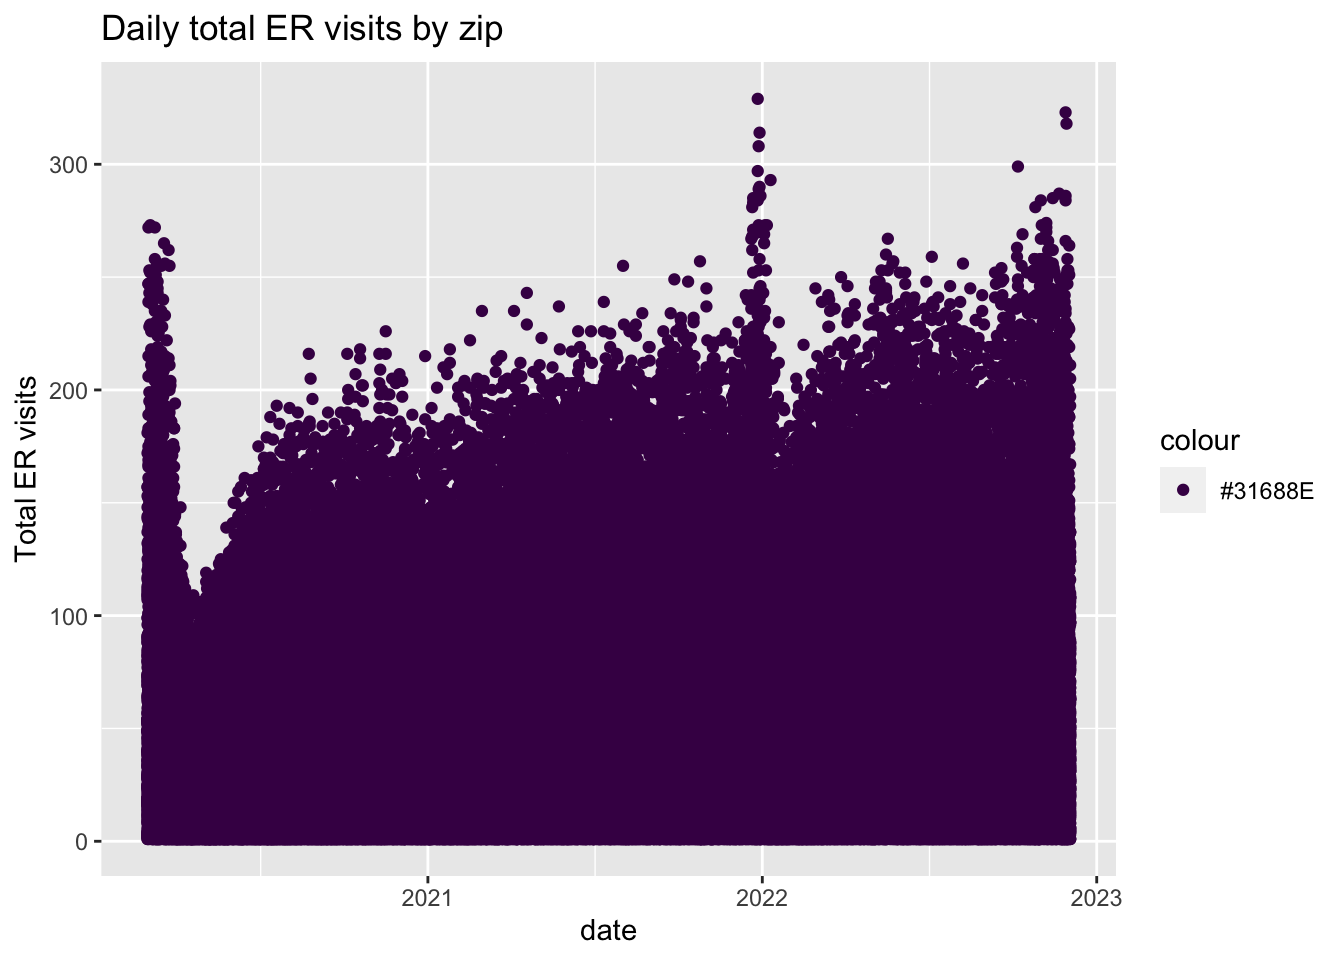
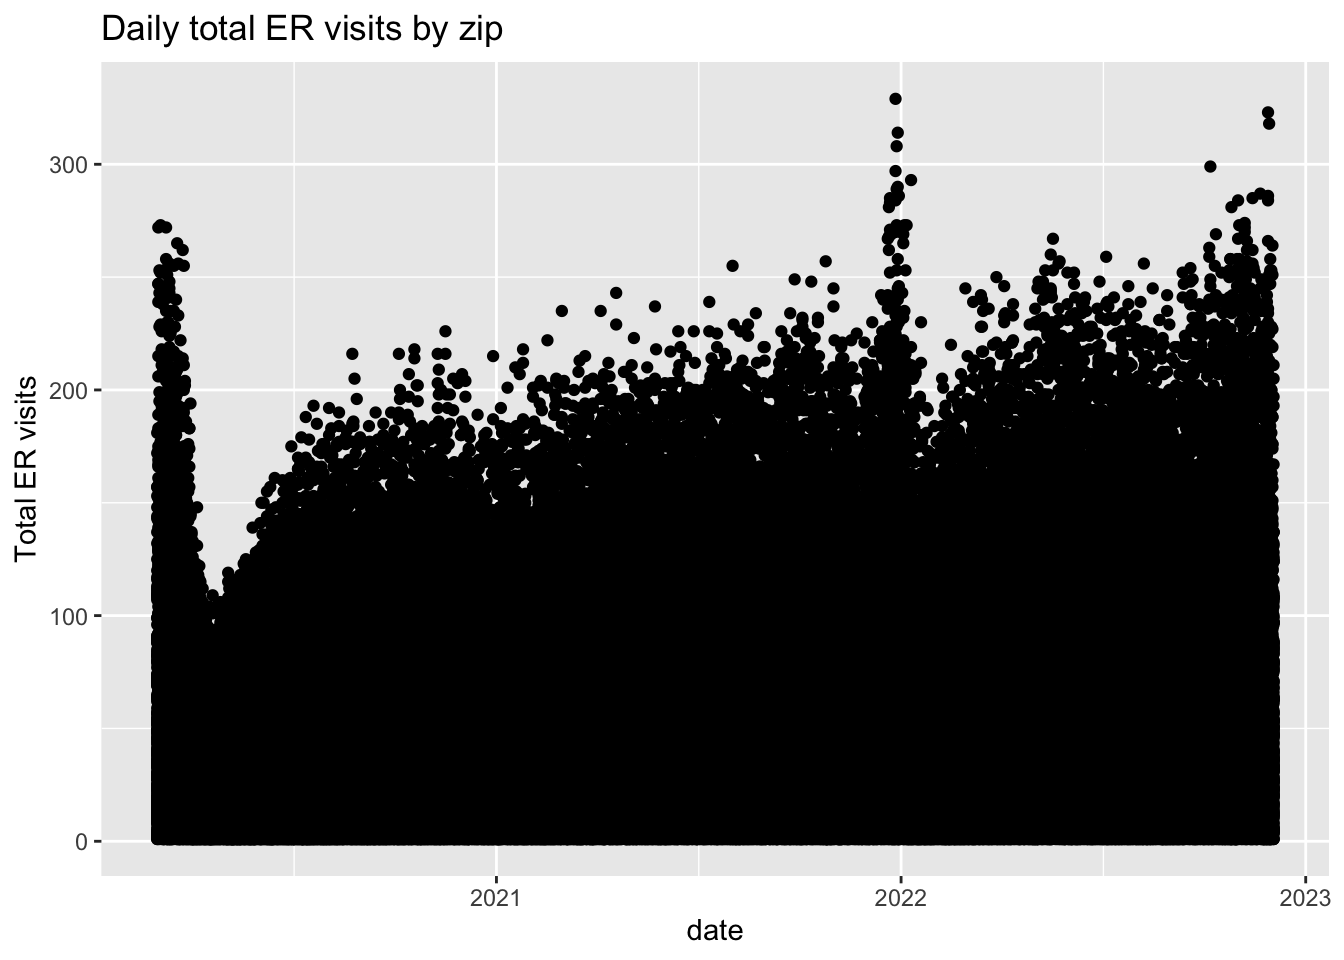
Cross correlation analysis

diff --git a/data_processing.html b/data_processing.html
@@ -476,29 +476,9 @@ class="section level1">
 
 airqual_annual = read_csv(&quot;data/cleaned_data/uhf_airquality.csv&quot;) |&gt; 
   filter(str_detect(name, &quot;Fine&quot;)) 
-table(airqual_annual$time_period)</code></pre>
-<pre><code>## 
-## Annual Average 2009 Annual Average 2010 Annual Average 2011 Annual Average 2012 
-##                  42                  42                  42                  42 
-## Annual Average 2013 Annual Average 2014 Annual Average 2015 Annual Average 2016 
-##                  42                  42                  42                  42 
-## Annual Average 2017 Annual Average 2018 Annual Average 2019 Annual Average 2020 
-##                  42                  42                  42                  42 
-## Annual Average 2021         Summer 2009         Summer 2010         Summer 2011 
-##                  42                  42                  42                  42 
-##         Summer 2012         Summer 2013         Summer 2014         Summer 2015 
-##                  42                  42                  42                  42 
-##         Summer 2016         Summer 2017         Summer 2018         Summer 2019 
-##                  42                  42                  42                  42 
-##         Summer 2020         Summer 2021      Winter 2008-09      Winter 2009-10 
-##                  42                  42                  42                  42 
-##      Winter 2010-11      Winter 2011-12      Winter 2012-13      Winter 2013-14 
-##                  42                  42                  42                  42 
-##      Winter 2014-15      Winter 2015-16      Winter 2016-17      Winter 2017-18 
-##                  42                  42                  42                  42 
-##      Winter 2018-19      Winter 2019-20      Winter 2020-21 
-##                  42                  42                  42</code></pre>
-<pre class="r"><code>#### Prepare dataset from daily data (Summer: 1June-31Aug, Winter 1Dec-28Feb)
+table(airqual_annual$time_period)
+
+#### Prepare dataset from daily data (Summer: 1June-31Aug, Winter 1Dec-28Feb)
 
 # Annual averages for each pollutant and each zip
 
@@ -569,10 +549,11 @@ er_plot</code></pre>
     numeric_month = match(month, month.name),
     date = as.Date(paste(year, numeric_month, day, sep = &quot;-&quot;), format = &quot;%Y-%m-%d&quot;)
   ) |&gt; 
-  ggplot(aes(x = date, y = total_ed_visits, color = &quot;#31688E&quot;)) +
+  ggplot(aes(x = date, y = total_ed_visits)) +
   geom_point() +
   labs(title = &quot;Daily total ER visits by zip&quot;,
-       y = &quot;Total ER visits&quot;)</code></pre>
+       y = &quot;Total ER visits&quot;) +
+  theme(legend.position = &quot;none&quot;)</code></pre>
 <p><img src="data_processing_files/figure-html/unnamed-chunk-4-1.png" width="100%" /></p>
 <p>From the plot below, we can see that the number of emergency
 department visits related to pneumonia peak during winter seasons.</p>
@@ -702,6 +683,178 @@ class="section level2">
 
 poll_plot</code></pre>
 <p><img src="data_processing_files/figure-html/unnamed-chunk-7-1.png" width="100%" /></p>
+</div>
+</div>
+<div id="cross-correlation-analysis" class="section level1">
+<h1>Cross correlation analysis</h1>
+<pre class="r"><code>ccf_df = air_qual_dis |&gt; 
+  filter(!is.na(o3_ppm) &amp; !is.na(ili_pne_visits)) |&gt; 
+  mutate(date_lag = date + days(117),
+         scaled_o3 = o3_ppm * 100, 
+         lagged_o3 = lag(scaled_o3, n = 117)
+  )
+print(ccf(ccf_df$o3_ppm, ccf_df$ili_pne_admissions, lag.max=250))</code></pre>
+<p><img src="data_processing_files/figure-html/unnamed-chunk-8-1.png" width="672" /></p>
+<pre><code>## 
+## Autocorrelations of series &#39;X&#39;, by lag
+## 
+##   -250   -249   -248   -247   -246   -245   -244   -243   -242   -241   -240 
+## -0.014  0.014  0.014  0.023  0.023  0.019  0.020  0.018  0.014  0.025  0.023 
+##   -239   -238   -237   -236   -235   -234   -233   -232   -231   -230   -229 
+##  0.040  0.037  0.043  0.018  0.026  0.031  0.039  0.049  0.032  0.043  0.055 
+##   -228   -227   -226   -225   -224   -223   -222   -221   -220   -219   -218 
+##  0.047  0.046  0.035  0.046  0.056  0.051  0.067  0.063  0.060  0.063  0.077 
+##   -217   -216   -215   -214   -213   -212   -211   -210   -209   -208   -207 
+##  0.087  0.081  0.076  0.077  0.078  0.071  0.085  0.095  0.109  0.096  0.108 
+##   -206   -205   -204   -203   -202   -201   -200   -199   -198   -197   -196 
+##  0.110  0.112  0.111  0.107  0.095  0.090  0.097  0.084  0.105  0.102  0.100 
+##   -195   -194   -193   -192   -191   -190   -189   -188   -187   -186   -185 
+##  0.115  0.124  0.122  0.121  0.117  0.125  0.131  0.134  0.147  0.131  0.142 
+##   -184   -183   -182   -181   -180   -179   -178   -177   -176   -175   -174 
+##  0.127  0.127  0.124  0.139  0.148  0.132  0.140  0.141  0.145  0.147  0.145 
+##   -173   -172   -171   -170   -169   -168   -167   -166   -165   -164   -163 
+##  0.156  0.158  0.159  0.162  0.153  0.143  0.155  0.155  0.159  0.155  0.160 
+##   -162   -161   -160   -159   -158   -157   -156   -155   -154   -153   -152 
+##  0.159  0.163  0.159  0.157  0.157  0.167  0.166  0.163  0.166  0.152  0.145 
+##   -151   -150   -149   -148   -147   -146   -145   -144   -143   -142   -141 
+##  0.147  0.150  0.156  0.162  0.158  0.159  0.148  0.152  0.141  0.138  0.147 
+##   -140   -139   -138   -137   -136   -135   -134   -133   -132   -131   -130 
+##  0.136  0.136  0.148  0.150  0.141  0.147  0.132  0.116  0.118  0.118  0.109 
+##   -129   -128   -127   -126   -125   -124   -123   -122   -121   -120   -119 
+##  0.105  0.103  0.097  0.107  0.106  0.086  0.079  0.075  0.082  0.070  0.066 
+##   -118   -117   -116   -115   -114   -113   -112   -111   -110   -109   -108 
+##  0.065  0.068  0.072  0.059  0.056  0.052  0.040  0.045  0.029  0.024  0.026 
+##   -107   -106   -105   -104   -103   -102   -101   -100    -99    -98    -97 
+##  0.037  0.047  0.028  0.012  0.009  0.005  0.004 -0.005 -0.012  0.006 -0.015 
+##    -96    -95    -94    -93    -92    -91    -90    -89    -88    -87    -86 
+## -0.032 -0.026 -0.040 -0.036 -0.041 -0.040 -0.045 -0.045 -0.051 -0.052 -0.049 
+##    -85    -84    -83    -82    -81    -80    -79    -78    -77    -76    -75 
+## -0.061 -0.069 -0.079 -0.056 -0.068 -0.076 -0.081 -0.081 -0.077 -0.077 -0.080 
+##    -74    -73    -72    -71    -70    -69    -68    -67    -66    -65    -64 
+## -0.085 -0.084 -0.093 -0.091 -0.082 -0.108 -0.104 -0.105 -0.117 -0.113 -0.112 
+##    -63    -62    -61    -60    -59    -58    -57    -56    -55    -54    -53 
+## -0.129 -0.130 -0.124 -0.107 -0.096 -0.123 -0.141 -0.141 -0.126 -0.125 -0.134 
+##    -52    -51    -50    -49    -48    -47    -46    -45    -44    -43    -42 
+## -0.127 -0.133 -0.120 -0.123 -0.129 -0.132 -0.136 -0.138 -0.131 -0.142 -0.138 
+##    -41    -40    -39    -38    -37    -36    -35    -34    -33    -32    -31 
+## -0.127 -0.123 -0.125 -0.146 -0.138 -0.133 -0.125 -0.132 -0.133 -0.136 -0.125 
+##    -30    -29    -28    -27    -26    -25    -24    -23    -22    -21    -20 
+## -0.110 -0.106 -0.103 -0.105 -0.123 -0.104 -0.092 -0.086 -0.096 -0.087 -0.087 
+##    -19    -18    -17    -16    -15    -14    -13    -12    -11    -10     -9 
+## -0.096 -0.097 -0.097 -0.070 -0.087 -0.095 -0.087 -0.076 -0.069 -0.081 -0.086 
+##     -8     -7     -6     -5     -4     -3     -2     -1      0      1      2 
+## -0.074 -0.060 -0.059 -0.054 -0.056 -0.050 -0.046 -0.047 -0.052 -0.037 -0.029 
+##      3      4      5      6      7      8      9     10     11     12     13 
+## -0.032 -0.049 -0.040 -0.032 -0.027 -0.020 -0.022 -0.031 -0.020 -0.015 -0.002 
+##     14     15     16     17     18     19     20     21     22     23     24 
+##  0.007  0.002  0.009 -0.016 -0.002  0.003  0.011 -0.013 -0.010 -0.009 -0.003 
+##     25     26     27     28     29     30     31     32     33     34     35 
+##  0.007  0.019  0.012 -0.006  0.012  0.032  0.024  0.027  0.012  0.008  0.010 
+##     36     37     38     39     40     41     42     43     44     45     46 
+##  0.021  0.038  0.030  0.026  0.017  0.023  0.019  0.020  0.030  0.031  0.024 
+##     47     48     49     50     51     52     53     54     55     56     57 
+##  0.025  0.015  0.025  0.033  0.033  0.034  0.046  0.029  0.025  0.033  0.039 
+##     58     59     60     61     62     63     64     65     66     67     68 
+##  0.040  0.055  0.041  0.034  0.039  0.055  0.055  0.047  0.063  0.076  0.067 
+##     69     70     71     72     73     74     75     76     77     78     79 
+##  0.090  0.079  0.077  0.093  0.107  0.099  0.114  0.099  0.092  0.100  0.106 
+##     80     81     82     83     84     85     86     87     88     89     90 
+##  0.099  0.089  0.083  0.089  0.096  0.093  0.095  0.112  0.116  0.111  0.117 
+##     91     92     93     94     95     96     97     98     99    100    101 
+##  0.135  0.147  0.124  0.137  0.117  0.118  0.119  0.141  0.143  0.130  0.127 
+##    102    103    104    105    106    107    108    109    110    111    112 
+##  0.147  0.147  0.136  0.147  0.167  0.169  0.157  0.163  0.185  0.195  0.177 
+##    113    114    115    116    117    118    119    120    121    122    123 
+##  0.178  0.176  0.187  0.182  0.205  0.185  0.170  0.176  0.169  0.174  0.172 
+##    124    125    126    127    128    129    130    131    132    133    134 
+##  0.186  0.179  0.158  0.141  0.149  0.144  0.159  0.137  0.122  0.123  0.120 
+##    135    136    137    138    139    140    141    142    143    144    145 
+##  0.128  0.120  0.117  0.108  0.112  0.108  0.113  0.097  0.094  0.085  0.073 
+##    146    147    148    149    150    151    152    153    154    155    156 
+##  0.087  0.096  0.099  0.084  0.075  0.070  0.057  0.064  0.065  0.055  0.063 
+##    157    158    159    160    161    162    163    164    165    166    167 
+##  0.061  0.059  0.056  0.052  0.050  0.042  0.042  0.035  0.034  0.039  0.039 
+##    168    169    170    171    172    173    174    175    176    177    178 
+##  0.037  0.038  0.037  0.042  0.032  0.044  0.032  0.051  0.033  0.030  0.024 
+##    179    180    181    182    183    184    185    186    187    188    189 
+##  0.022  0.037  0.023  0.019  0.034  0.023  0.018  0.014  0.007  0.000  0.007 
+##    190    191    192    193    194    195    196    197    198    199    200 
+##  0.007  0.006 -0.006 -0.008 -0.007 -0.007 -0.011 -0.027 -0.038 -0.032 -0.041 
+##    201    202    203    204    205    206    207    208    209    210    211 
+## -0.041 -0.045 -0.035 -0.038 -0.047 -0.054 -0.060 -0.054 -0.066 -0.061 -0.048 
+##    212    213    214    215    216    217    218    219    220    221    222 
+## -0.039 -0.044 -0.040 -0.027 -0.052 -0.045 -0.057 -0.036 -0.039 -0.031 -0.055 
+##    223    224    225    226    227    228    229    230    231    232    233 
+## -0.057 -0.052 -0.050 -0.052 -0.062 -0.060 -0.062 -0.067 -0.074 -0.063 -0.061 
+##    234    235    236    237    238    239    240    241    242    243    244 
+## -0.066 -0.079 -0.075 -0.077 -0.082 -0.092 -0.099 -0.089 -0.083 -0.106 -0.107 
+##    245    246    247    248    249    250 
+## -0.100 -0.101 -0.112 -0.112 -0.109 -0.110</code></pre>
+<pre class="r"><code># Visualize lag
+
+ccf_df |&gt; 
+  ggplot() +
+  geom_point(aes(x = date_lag, y = scaled_o3), color = &quot;#440154&quot;) +
+  geom_point(aes(x = date, y = ili_pne_visits), color = &quot;#D8B26A&quot;) +
+  labs(title = &quot;Lagging Ozone variable by 117 days&quot;, 
+       x = &quot;Date&quot;,
+       y = &quot;Scaled O3&quot;) +
+  geom_vline(xintercept = as.numeric(as.Date(c(&quot;2021-01-01&quot;, &quot;2022-01-01&quot;, &quot;2023-01-01&quot;))), color = &quot;grey&quot;)</code></pre>
+<p><img src="data_processing_files/figure-html/unnamed-chunk-8-2.png" width="672" /></p>
+<pre class="r"><code>prelag_model = lm(ili_pne_visits ~ scaled_o3, data = ccf_df)
+summary(prelag_model)</code></pre>
+<pre><code>## 
+## Call:
+## lm(formula = ili_pne_visits ~ scaled_o3, data = ccf_df)
+## 
+## Residuals:
+##     Min      1Q  Median      3Q     Max 
+## -5.5475 -2.5946 -0.9882  1.5118 26.7952 
+## 
+## Coefficients:
+##             Estimate Std. Error t value Pr(&gt;|t|)    
+## (Intercept)   5.8074     0.2011  28.877   &lt;2e-16 ***
+## scaled_o3    -0.4331     0.0518  -8.362   &lt;2e-16 ***
+## ---
+## Signif. codes:  0 &#39;***&#39; 0.001 &#39;**&#39; 0.01 &#39;*&#39; 0.05 &#39;.&#39; 0.1 &#39; &#39; 1
+## 
+## Residual standard error: 3.953 on 3649 degrees of freedom
+## Multiple R-squared:  0.0188, Adjusted R-squared:  0.01853 
+## F-statistic: 69.92 on 1 and 3649 DF,  p-value: &lt; 2.2e-16</code></pre>
+<pre class="r"><code>ggplot(aes(x = scaled_o3, 
+           y = ili_pne_visits),
+       data = ccf_df) + 
+  geom_point(color = &quot;#FFA500&quot;) +
+  geom_smooth(method = &quot;lm&quot;, color = &quot;blue&quot;) +
+  labs(title = &quot;Pre-lag: Pneumonia hospital visits vs. Ozone (scaled)&quot;,
+       x = &quot;Scaled ozone&quot;, 
+       y = &quot;Pneumonia hospital visits&quot;)</code></pre>
+<p><img src="data_processing_files/figure-html/unnamed-chunk-8-3.png" width="672" /></p>
+<pre class="r"><code>lag_model = lm(ili_pne_visits ~ lagged_o3, data = ccf_df)
+summary(lag_model)</code></pre>
+<pre><code>## 
+## Call:
+## lm(formula = ili_pne_visits ~ lagged_o3, data = ccf_df)
+## 
+## Residuals:
+##     Min      1Q  Median      3Q     Max 
+## -5.7857 -2.5217 -0.8897  1.6270 26.9616 
+## 
+## Coefficients:
+##             Estimate Std. Error t value Pr(&gt;|t|)    
+## (Intercept)  2.73729    0.19172  14.278   &lt;2e-16 ***
+## lagged_o3    0.37175    0.04931   7.539    6e-14 ***
+## ---
+## Signif. codes:  0 &#39;***&#39; 0.001 &#39;**&#39; 0.01 &#39;*&#39; 0.05 &#39;.&#39; 0.1 &#39; &#39; 1
+## 
+## Residual standard error: 3.711 on 3532 degrees of freedom
+##   (117 observations deleted due to missingness)
+## Multiple R-squared:  0.01584,    Adjusted R-squared:  0.01556 
+## F-statistic: 56.83 on 1 and 3532 DF,  p-value: 5.998e-14</code></pre>
+<pre class="r"><code>ggplot(aes(x = lagged_o3, y = ili_pne_visits), data = ccf_df) + 
+  geom_point() +
+  geom_smooth(method = &quot;lm&quot;)</code></pre>
+<p><img src="data_processing_files/figure-html/unnamed-chunk-8-4.png" width="672" /></p>
 <ul>
 <li>talk about lag? observe seasonal changes</li>
 </ul>
@@ -805,7 +958,6 @@ checkdate_perzip_dis = dis_df |&gt;
   summarize(count = n())
 
 # Found many NAs in air_quality_disease.csv - need revision</code></pre>
-</div>
 </div>
 
 
